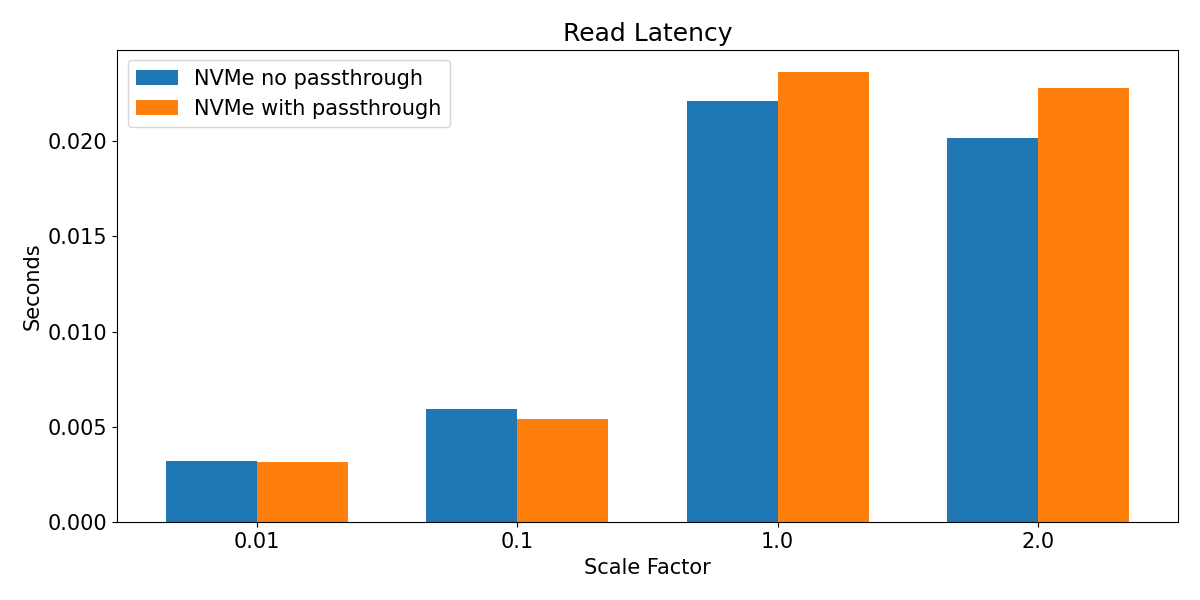
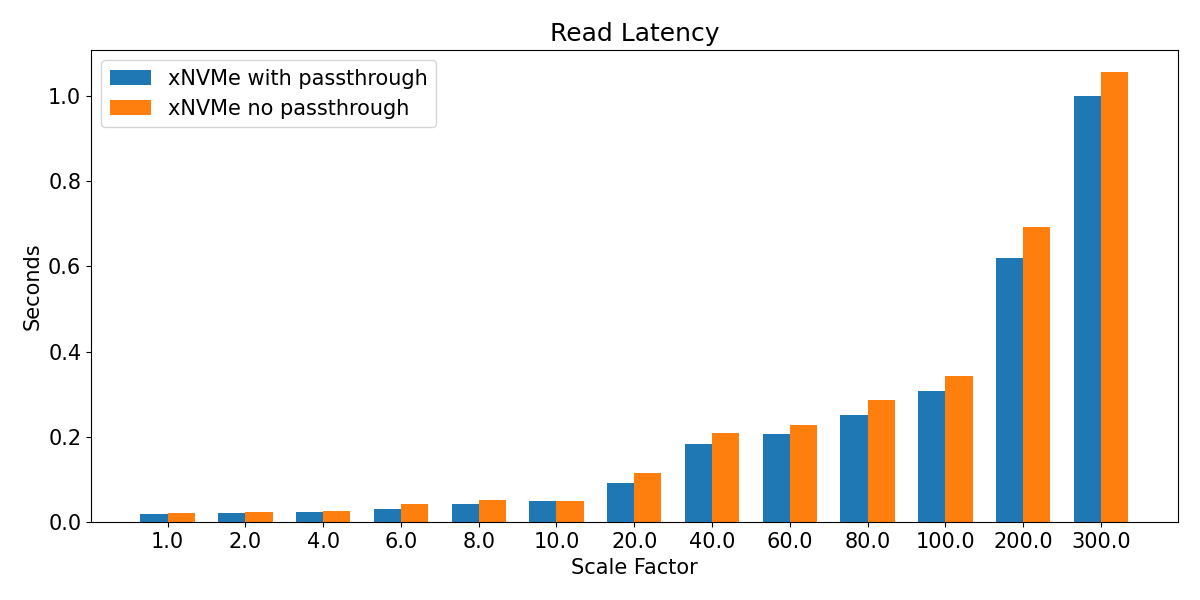
experiment results.

diff --git a/thesis_testing/presentation/experiment2/util.py b/thesis_testing/presentation/experiment2/util.py
@@ -3,8 +3,16 @@ import statistics
 import matplotlib.pyplot as plt
 import numpy as np
 
+sf_threshold = 10.0
+
+
+def clean_results(results):
+    return {k: v for k, v in results.items() if float(k) >= sf_threshold}
+
 
 def exp2_plot(title, results, show=False):
+    results = clean_results(results)
+
     labels = list(results.keys())
     x = np.arange(len(labels))
 
@@ -19,12 +27,12 @@ def exp2_plot(title, results, show=False):
     width = 0.15
     fix, ax = plt.subplots(figsize=(12, 6))
     _ = ax.bar(x - (width / 2 + width * 2), y1, width, label="Standard")
-    _ = ax.bar(x - (width / 2 + width), y2, width, label="NVMe File")
-    _ = ax.bar(x - (width / 2), y3, width, label="NVMe Sync")
-    _ = ax.bar(x + (width / 2), y4, width, label="NVMe Async, Single Queue")
-    _ = ax.bar(x + (width / 2 + width), y5, width, label="NVMe Async, Queue Pool")
+    _ = ax.bar(x - (width / 2 + width), y2, width, label="xNVMe File")
+    _ = ax.bar(x - (width / 2), y3, width, label="xNVMe Sync")
+    _ = ax.bar(x + (width / 2), y4, width, label="xNVMe Async, Single Queue")
+    _ = ax.bar(x + (width / 2 + width), y5, width, label="xNVMe Async, Queue Pool")
     _ = ax.bar(
-        x + (width / 2 + width * 2), y6, width, label="NVMe Async, Thread Queues"
+        x + (width / 2 + width * 2), y6, width, label="xNVMe Async, Thread Queues"
     )
 
     # labels and formatting
@@ -46,6 +54,8 @@ def exp2_plot(title, results, show=False):
 
 
 def exp2_table(results):
+    results = clean_results(results)
+
     rows = results.keys()
     cols = [
         "duckdb_standard",

diff --git a/thesis_testing/presentation/experiment1/util.py b/thesis_testing/presentation/experiment1/util.py
@@ -3,8 +3,16 @@ import statistics
 import matplotlib.pyplot as plt
 import numpy as np
 
+sf_threshold = 1.0
+
+
+def clean_results(results):
+    return {k: v for k, v in results.items() if float(k) >= sf_threshold}
+
 
 def exp1_plot(title, results, show=False):
+    results = clean_results(results)
+
     labels = list(results.keys())
     x = np.arange(len(labels))
 
@@ -17,8 +25,8 @@ def exp1_plot(title, results, show=False):
     # plot
     width = 0.35
     fix, ax = plt.subplots(figsize=(12, 6))
-    _ = ax.bar(x - width / 2, y1, width, label="NVMe no passthrough")
-    _ = ax.bar(x + width / 2, y2, width, label="NVMe with passthrough")
+    _ = ax.bar(x - width / 2, y1, width, label="xNVMe with passthrough")
+    _ = ax.bar(x + width / 2, y2, width, label="xNVMe no passthrough")
 
     # labels and formatting
     ax.set_xlabel("Scale Factor")
@@ -39,6 +47,8 @@ def exp1_plot(title, results, show=False):
 
 
 def exp1_table(results):
+    results = clean_results(results)
+
     rows = results.keys()
     cols = [
         "duckdb_xnvme_async_tqueue",

diff --git a/thesis_testing/presentation/present_results.py b/thesis_testing/presentation/present_results.py
@@ -47,14 +47,14 @@ def parse_results(data_file):
 
 if __name__ == "__main__":
     print("Reading Results..")
-    results = parse_results(cur_dir / "../../../test/defense_experiments/results.txt")
+    results = parse_results(cur_dir / "../results/test_results.txt")
 
-    print("Presenting Experiment 1..")
+    print("\nPresenting Experiment 1..")
     exp1_plot("Read Latency", results)
     exp1_table(results)
 
-    print("Presenting Experiment 2..")
+    print("\nPresenting Experiment 2..")
     exp2_plot("Read Latency", results)
     exp2_table(results)
 
-    print("Done!")
+    print("\nDone!")
